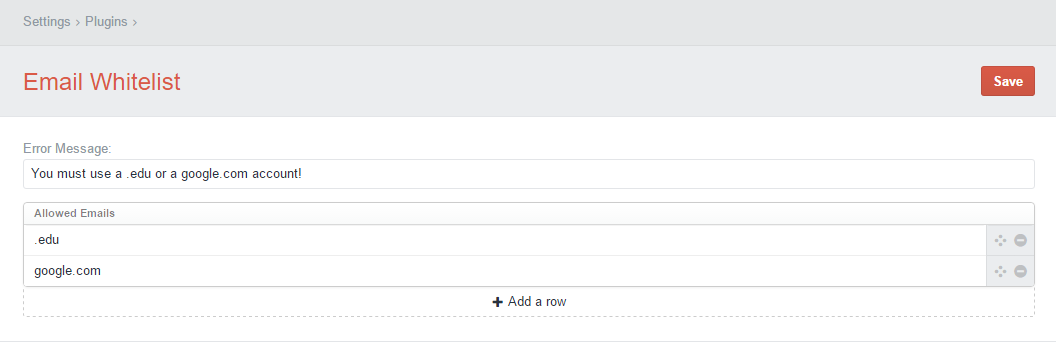
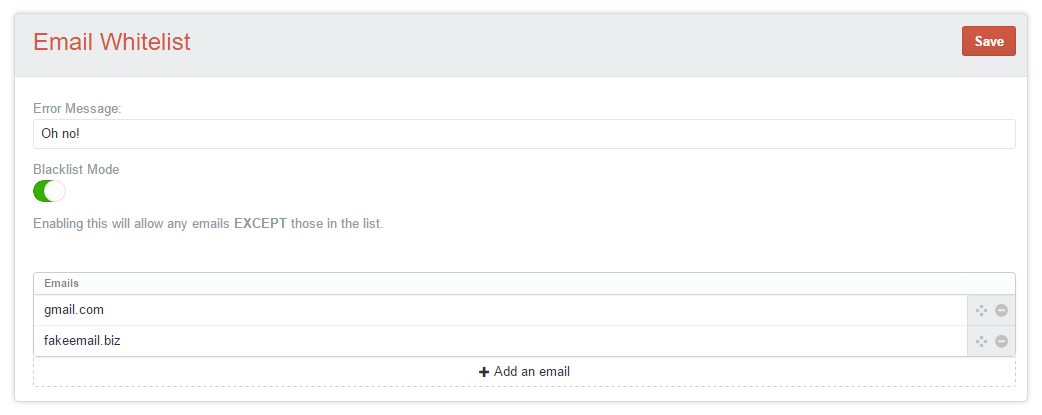
:black_large_square: Add BlackList feature, #1

diff --git a/emailwhitelist/templates/_settings.html b/emailwhitelist/templates/_settings.html
@@ -11,17 +11,29 @@
 	}) }}
 </div>
 
+<div style="margin-bottom: 3em">
+	<h5 id="toggleLabel">Blacklist Mode</h5>
+	{{ forms.lightswitch({
+		label: "Blacklist Mode"|t,
+		id: 'blacklistMode',
+		name: 'blacklistMode',
+		labelId: 'toggleLabel',
+		on: settings.blacklistMode
+	}) }}
+	<p style="color: #8f98a3;">Enabling this will allow any emails <b>EXCEPT</b> those in the list.</p>
+</div>
+
 {{ forms.editableTable({
-	label: "Allowed Emails"|t,
-	id: 'allowedEmails',
-	name: 'allowedEmails',
+	label: "List of Emails"|t,
+	id: 'emails',
+	name: 'emails',
 	addRowLabel: 'Add an email',
-	errors: settings.getErrors('allowedEmails'),
+	errors: settings.getErrors('emails'),
 	cols: [
 		{
-			heading: 'Allowed Emails',
+			heading: 'Emails',
 			type: 'singleline'
 		}
 	],
-	rows: settings.allowedEmails
+	rows: settings.emails
 }) }}

diff --git a/emailwhitelist/EmailWhitelistPlugin.php b/emailwhitelist/EmailWhitelistPlugin.php
@@ -49,10 +49,8 @@ class EmailWhitelistPlugin extends BasePlugin
 	protected function defineSettings()
 	{
 		return array(
-			'allowedEmails' => array(
-				AttributeType::String,
-				'label' => 'Allowed Emails'
-			),
+			'emails' => array(AttributeType::String, 'label' => 'Emails'),
+			'blacklistMode' => array(AttributeType::Bool, 'default' => true),
 			'errorMessage' => 'There was an error, sorry!'
 		);
 	}
@@ -71,21 +69,34 @@ class EmailWhitelistPlugin extends BasePlugin
 			{
 				$email = $user->email;
 				$domain = explode('@', $email)[1];
+				
+				$settings = craft()->plugins->getPlugin('EmailWhitelist')->getSettings();
 
-				$allowedEmails = craft()->plugins->getPlugin('EmailWhitelist')->getSettings()->allowedEmails;
-				$errorMessage = craft()->plugins->getPlugin('EmailWhitelist')->getSettings()->errorMessage;
+				$emails = $settings->emails;
+				$blacklistMode = $settings->blacklistMode;
+				$errorMessage = $settings->errorMessage;
 
-				foreach ($allowedEmails as $e) {
+				if ($blacklistMode) {
+					foreach ($emails as $e) {
 						if ($domain === $e[0]) {
-								$event->performAction = true;
-								return true;
+							craft()->userSession->setFlash('emailwhitelist', $errorMessage);
+							$event->performAction = false;
+							return false;
 						}
+							$event->performAction = true;
+							return true;
+					}
+				} else {
+					foreach ($emails as $e) {
+						if ($domain === $e[0]) {
+							$event->performAction = true;
+							return true;
+						}
+						craft()->userSession->setFlash('emailwhitelist', $errorMessage);
+						$event->performAction = false;
+						return false;
+					}
 				}
-
-				craft()->userSession->setFlash('allowedEmails', $errorMessage);
-				// Cancel user save
-				$event->performAction = false;
-				return false;
 			}
 		});
 	}

diff --git a/emailwhitelist/services/EmailWhitelist_GetEmailsService.php b/emailwhitelist/services/EmailWhitelist_GetEmailsService.php
@@ -1,0 +1,13 @@
+<?php
+namespace Craft;
+
+class EmailWhitelist_GetEmailsService extends BaseApplicationComponent
+{
+    public function getEmails()
+		{
+				$plugin = craft()->plugins->getPlugin('emailWhitelist');
+				$settings = $plugin->getSettings();
+
+				return $settings->emails;
+		}
+}

diff --git a/emailwhitelist/variables/EmailWhitelistVariable.php b/emailwhitelist/variables/EmailWhitelistVariable.php
@@ -3,8 +3,8 @@ namespace Craft;
 
 class EmailWhitelistVariable
 {
-    public function getAllowedEmails()
+    public function getEmails()
 		{
-				return craft()->emailWhitelist_getAllowedEmails->getAllowedEmails();
+				return craft()->emailWhitelist_getEmails->getEmails();
 		}
 }

diff --git a/README.md b/README.md
@@ -11,23 +11,30 @@ A plugin for [Craft CMS](https://craftcms.com/) that prevents new users from sig
 
 In the settings page for **Email Whitelist**, simply add a new row and type the text that any new user's email must have. The plugin will check each item in the list.
 
+There is also a toggle to enable **Blacklist Mode**, which disallows whatever emails you've put in the list.
+
 ![Screenshot of EmailWhitelist](screenshot.png)
 
 Do you also have client-side validation? Great! In a template, you can get the list of allowed emails to throw into a `<script>` tag:
 ```
-{% for email in craft.emailWhitelist.getAllowedEmails() %}
+{% for email in craft.emailWhitelist.getEmails() %}
   {{ email[0] }}
 {% endfor %}
 ```
 
 On error, the plugin sets a flash message which you can see in a template:
 ```
-{% if craft.session.hasFlash('allowedEmails') %}
-  <h1>{{ craft.session.getFlash('allowedEmails') }}</h1>
+{% if craft.session.hasFlash('emailwhitelist') %}
+  <h1>{{ craft.session.getFlash('emailwhitelist') }}</h1>
 {% endif %}
 ```
 
 That's all there is to it!
+
+## Changelog
+
+1.1.0 : Add Blacklist mode, with a toggle on the plugin's Settings page, changed variable names
+1.0.0 : Initial Version
 
 ## Feedback?
 
